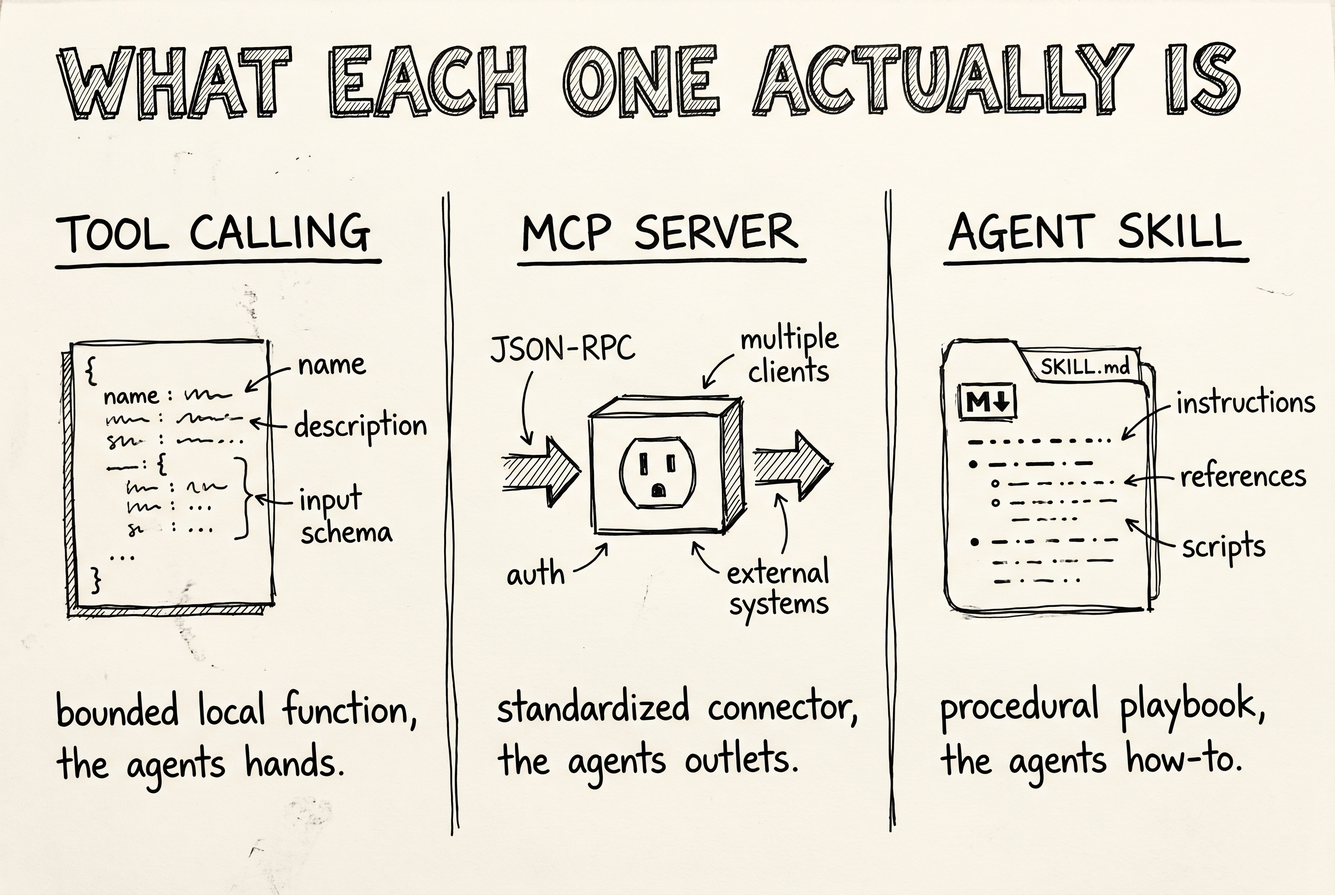
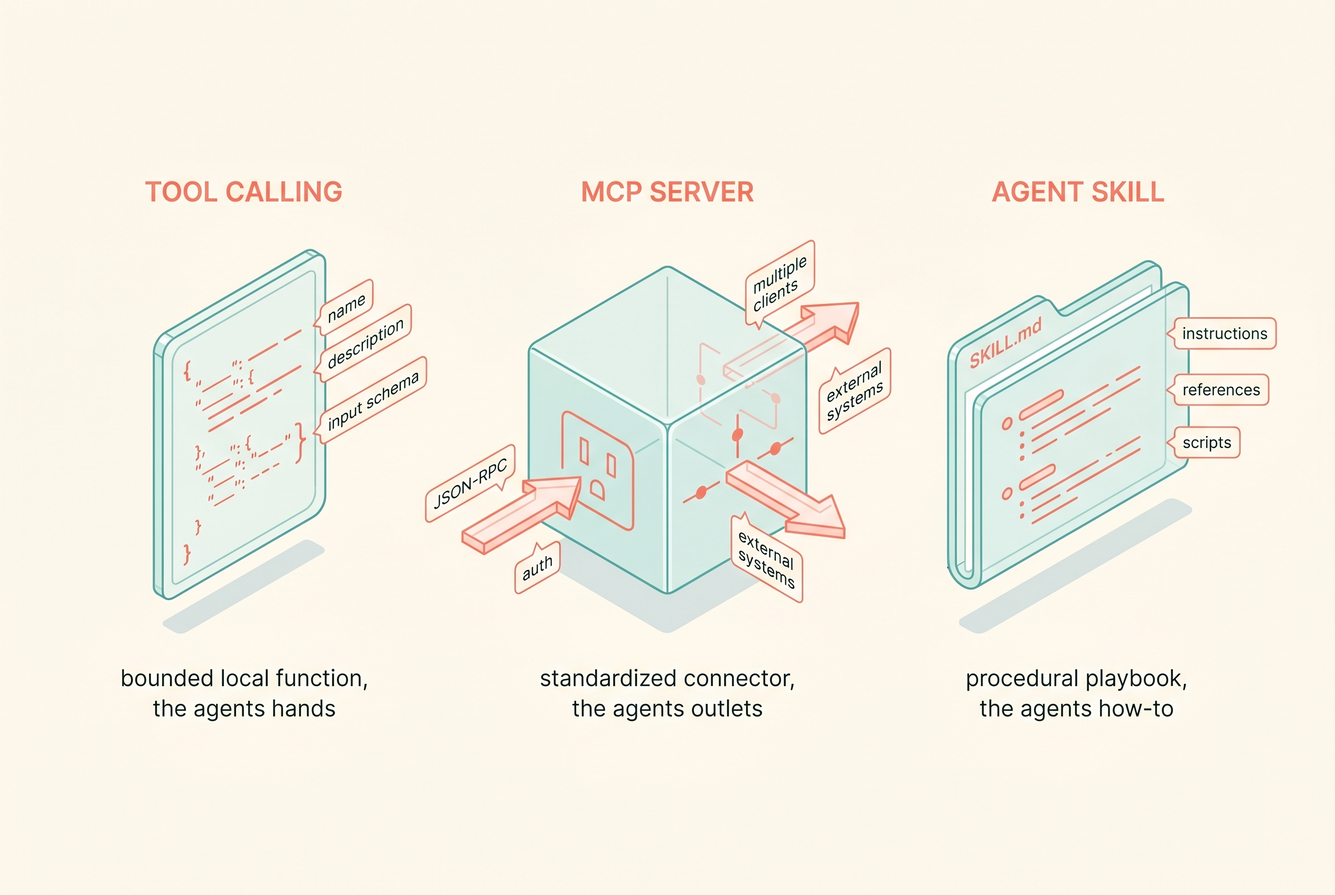
Archive diagram-1-anatomy.png from content: Skills MCP Tools three layers, restyled to match hero: diagram-1-anatomy.png

diff --git a/projects/content/INDEX.md b/projects/content/INDEX.md
@@ -57,3 +57,4 @@
 | 2026-05-16 | images | [diagram-1-anatomy.png](images/diagram-1-anatomy.png) | Skills MCP Tools three layers: diagram-1-anatomy.png | /Users/marcokotrotsos/PERSONAL/Content/drafts/skills-mcp-tools-three-layers/diagram-1-anatomy.png |
 | 2026-05-16 | images | [diagram-2-decision.png](images/diagram-2-decision.png) | Skills MCP Tools three layers: diagram-2-decision.png | /Users/marcokotrotsos/PERSONAL/Content/drafts/skills-mcp-tools-three-layers/diagram-2-decision.png |
 | 2026-05-16 | images | [diagram-3-architecture.png](images/diagram-3-architecture.png) | Skills MCP Tools three layers: diagram-3-architecture.png | /Users/marcokotrotsos/PERSONAL/Content/drafts/skills-mcp-tools-three-layers/diagram-3-architecture.png |
+| 2026-05-16 | images | [diagram-1-anatomy.png](images/diagram-1-anatomy.png) | Skills MCP Tools three layers, restyled to match hero: diagram-1-anatomy.png | /Users/marcokotrotsos/PERSONAL/Content/drafts/skills-mcp-tools-three-layers/diagram-1-anatomy.png |

diff --git a/INDEX.md b/INDEX.md
@@ -144,3 +144,4 @@
 | 2026-05-16 | content | images | [diagram-1-anatomy.png](projects/content/images/diagram-1-anatomy.png) | Skills MCP Tools three layers: diagram-1-anatomy.png |
 | 2026-05-16 | content | images | [diagram-2-decision.png](projects/content/images/diagram-2-decision.png) | Skills MCP Tools three layers: diagram-2-decision.png |
 | 2026-05-16 | content | images | [diagram-3-architecture.png](projects/content/images/diagram-3-architecture.png) | Skills MCP Tools three layers: diagram-3-architecture.png |
+| 2026-05-16 | content | images | [diagram-1-anatomy.png](projects/content/images/diagram-1-anatomy.png) | Skills MCP Tools three layers, restyled to match hero: diagram-1-anatomy.png |
